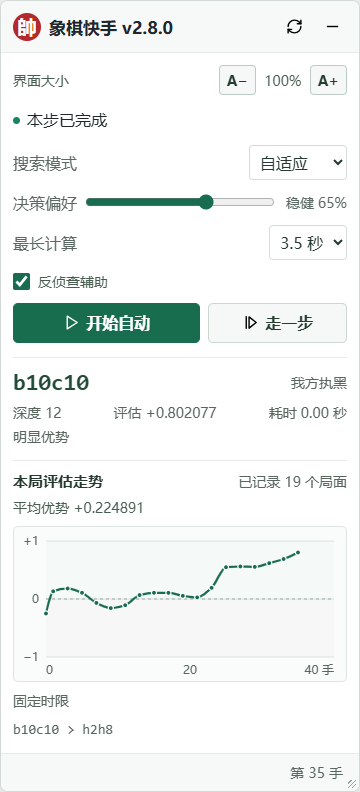
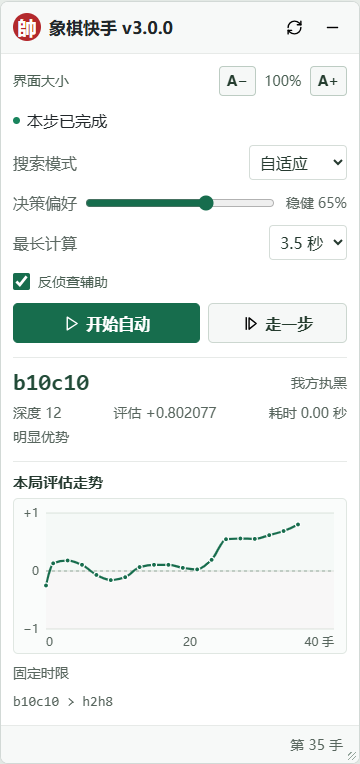
release: publish v3.0 official edition with a compact evaluation panel

diff --git a/extension/content.js b/extension/content.js
@@ -41,8 +41,7 @@
     .primary{background:#176d4d;color:white;border-color:#176d4d}.primary img{filter:brightness(0) invert(1)}.primary.running{background:#a52b32;border-color:#a52b32}
     .result{margin-top:14px;border-top:1px solid #e7eae8;padding-top:11px;display:flex;justify-content:space-between;align-items:center;gap:8px}.move{font-family:Consolas,monospace;font-size:23px;font-weight:600;color:#224b38;white-space:nowrap}
     #side{font-size:14px;color:#58665e}.metrics{display:flex;flex-wrap:wrap;justify-content:space-between;color:#58665e;font-size:14px;gap:5px;margin-top:7px;font-variant-numeric:tabular-nums}.score-meaning{font-size:14px;line-height:1.6;color:#58665e;margin-top:4px;overflow-wrap:anywhere}.pv{color:#58665e;font-family:Consolas,monospace;font-size:14px;line-height:1.6;overflow-wrap:anywhere;margin-top:9px;max-height:5em;overflow:auto}
-    .evaluation-history{margin-top:12px;border-top:1px solid #e7eae8;padding-top:10px}.evaluation-heading{display:flex;align-items:center;justify-content:space-between;gap:6px;font-size:14px}.evaluation-heading b{font-size:15px;color:#263a30}.evaluation-heading span{color:#58665e;font-variant-numeric:tabular-nums}
-    #evaluation-integral{display:block;margin-top:6px;font-size:14px;line-height:1.6;color:#485d51;font-variant-numeric:tabular-nums;overflow-wrap:anywhere}
+    .evaluation-history{margin-top:12px;border-top:1px solid #e7eae8;padding-top:10px}.evaluation-heading{font-size:14px}.evaluation-heading b{font-size:15px;color:#263a30}
     .evaluation-plot{position:relative;margin-top:6px;border:1px solid #e0e7e2;border-radius:5px;overflow:hidden;background:#fafcfb}#evaluation-chart{display:block;width:100%;height:auto;overflow:visible;font-family:inherit;font-size:12px;color:#58665e;touch-action:pan-y}.evaluation-grid{stroke:#dce4de;stroke-width:1}.evaluation-zero{stroke:#9baea1;stroke-dasharray:3 3}.evaluation-axis{fill:#58665e}.evaluation-line{fill:none;stroke:#176d4d;stroke-width:2.2;stroke-linecap:round;stroke-linejoin:round;pointer-events:none}.evaluation-point{fill:#176d4d;stroke:#fff;stroke-width:1.2;cursor:crosshair}.evaluation-point[data-mate=true]{fill:#ad393d}.evaluation-point:focus{outline:none;stroke:#263a30;stroke-width:2}.evaluation-hit{fill:transparent;pointer-events:all;cursor:crosshair}#evaluation-cursor{stroke:#7d9486;stroke-width:1;stroke-dasharray:3 3;pointer-events:none}#evaluation-active{fill:#fff;stroke:#176d4d;stroke-width:2;pointer-events:none}
     #evaluation-tooltip{position:absolute;left:8px;top:7px;z-index:1;max-width:calc(100% - 16px);padding:3px 6px;border:1px solid #d5dfd8;border-radius:4px;background:#fffffff2;box-shadow:0 2px 6px #162a231a;font-size:13px;line-height:1.6;color:#485d51;font-variant-numeric:tabular-nums;overflow-wrap:anywhere;pointer-events:none}
     footer{display:flex;flex-wrap:wrap;gap:5px;align-items:center;justify-content:flex-end;padding:9px 16px 9px 12px;background:#f7f9f8;border-top:1px solid #e7eae8;color:#58665e;font-size:14px}
@@ -58,8 +57,7 @@
   <div class="actions"><button id="auto" class="command primary" disabled>${icon('play','开始自动')}</button><button id="single" class="command" disabled>${icon('step-forward','走一步')}</button></div>
   <div class="result"><output id="move" class="move">-</output><span id="side">-</span></div><div class="metrics"><span id="depth">深度 -</span><span id="score">评估 -</span><span id="elapsed">耗时 -</span></div>
   <div id="score-meaning" class="score-meaning">暂无有效评估</div>
-  <section class="evaluation-history" aria-label="本局评估走势"><div class="evaluation-heading"><b>本局评估走势</b><span id="evaluation-summary">已记录 0 个局面</span></div>
-  <output id="evaluation-integral" title="有符号积分除以实际记录手数跨度，范围 −1～+1">平均优势 -</output>
+  <section class="evaluation-history" aria-label="本局评估走势"><div class="evaluation-heading"><b>本局评估走势</b></div>
   <div class="evaluation-plot"><svg id="evaluation-chart" viewBox="0 0 332 154" role="group" aria-label="本局评估曲线，横轴为手数，纵轴为评估，范围负1到正1">
   <path class="evaluation-grid" d="M32,14H320 M32,72H320 M32,130H320"/><path class="evaluation-grid evaluation-zero" d="M32,72H320"/>
   <g class="evaluation-axis"><text x="25" y="18" text-anchor="end">+1</text><text x="25" y="76" text-anchor="end">0</text><text x="25" y="134" text-anchor="end">−1</text><text id="evaluation-x-start" x="32" y="147">0</text><text id="evaluation-x-middle" x="176" y="147" text-anchor="middle">5</text><text id="evaluation-x-end" x="320" y="147" text-anchor="end">10 手</text></g>
@@ -246,24 +244,10 @@
     $('evaluation-x-end').textContent = `${evaluationMaxPly} 手`;
     const segments = evaluationCurveSegments(evaluationPoints);
     $('evaluation-line').setAttribute('d', evaluationCurvePath(evaluationPoints, segments));
-    // Exact integral of the same Hermite segments used to draw the curve.
-    const area = segments.reduce((total, segment) => total +
-      segment.width * (segment.start.value + segment.end.value) / 2 +
-      segment.width ** 2 * (segment.startSlope - segment.endSlope) / 12, 0);
-    const integral = $('evaluation-integral');
-    const span = evaluationPoints.length > 1 ? last.ply - evaluationPoints[0].ply : 0;
-    const mean = span > 0 ? Math.max(-1, Math.min(1, area / span)) : null;
-    const shownMean = mean === null ? null : Number(mean.toFixed(6));
-    integral.textContent = shownMean === null ? '平均优势 -' : `平均优势 ${signedEvaluation(shownMean === 0 ? 0 : shownMean)}`;
-    integral.dataset.value = mean === null ? '' : String(mean === 0 ? 0 : mean);
-    integral.dataset.area = evaluationPoints.length ? String(area === 0 ? 0 : area) : '';
-    integral.dataset.startPly = evaluationPoints.length ? String(evaluationPoints[0].ply) : '';
-    integral.dataset.endPly = last ? String(last.ply) : '';
     $('evaluation-points').innerHTML = evaluationPoints.map(point => {
       const label = evaluationPointLabel(point);
       return `<circle class="evaluation-point" cx="${chartCoordinate(chartX(point.ply))}" cy="${chartCoordinate(chartY(point.value))}" r="${point.mate ? 3.3 : 2.5}" tabindex="0" role="img" data-ply="${point.ply}" data-value="${point.value}" data-mate="${Boolean(point.mate)}" aria-label="${label}"></circle>`;
     }).join('');
-    $('evaluation-summary').textContent = `已记录 ${evaluationPoints.length} 个局面`;
     evaluationChart.dataset.count = String(evaluationPoints.length);
     evaluationChart.dataset.perspective = evaluationSide;
     evaluationChart.dataset.controlled = String(evaluationControlled);

diff --git a/安装说明.html b/安装说明.html
@@ -2,17 +2,17 @@
 <html lang="zh-CN">
 <head>
 <meta charset="utf-8"><meta name="viewport" content="width=device-width,initial-scale=1">
-<title>象棋快手 v2.8.0 · 安装说明</title>
+<title>象棋快手 v3.0 正式版 · 安装说明</title>
 <style>*{box-sizing:border-box}body{margin:0;background:#f5f7f6;color:#24352b;font:16px/1.8 "Microsoft YaHei",system-ui,sans-serif}main{max-width:780px;margin:36px auto;padding:0 24px 40px}header{display:flex;gap:14px;align-items:center;border-bottom:1px solid #d9e0db;padding-bottom:20px}header img{width:54px;height:54px}h1{margin:0;font-size:27px}header p{margin:0;color:#6b776f}h2{font-size:19px;margin:26px 0 8px}ol{padding-left:24px}li{margin:10px 0}code{font:14px Consolas,monospace;background:#e9eeeb;padding:3px 7px;border-radius:3px;overflow-wrap:anywhere}a{color:#176d4d}table{width:100%;border-collapse:collapse;margin:12px 0}th,td{text-align:left;padding:10px 12px;border-bottom:1px solid #d9e0db}th{color:#637268;font-weight:500}p{margin:10px 0}footer{margin-top:28px;border-top:1px solid #d9e0db;padding-top:16px;font-size:14px}@media(max-width:500px){main{margin-top:20px;padding:0 16px 28px}h1{font-size:23px}th,td{padding:8px 5px}}</style>
 </head>
 <body><main>
-<header><img src="extension/icons/icon128.png" alt="象棋快手图标"><div><h1>象棋快手 v2.8.0</h1><p>Pikafish NNUE · 对局、题库与棋盘分析</p></div></header>
+<header><img src="extension/icons/icon128.png" alt="象棋快手图标"><div><h1>象棋快手 v3.0 正式版</h1><p>Pikafish NNUE · 对局、题库与棋盘分析</p></div></header>
 <h2>安装与更新</h2>
 <ol>
-<li>从 <a href="https://github.com/zhaopengbo-0702/xiangqi-quick-hands/releases/latest">GitHub Releases</a> 下载 <code>xiangqi-quick-hands-v2.8.0.zip</code> 并解压。</li>
+<li>从 <a href="https://github.com/zhaopengbo-0702/xiangqi-quick-hands/releases/latest">GitHub Releases</a> 下载 <code>xiangqi-quick-hands-v3.0.0.zip</code> 并解压。</li>
 <li>Edge 打开 <code>edge://extensions</code>，Chrome 打开 <code>chrome://extensions</code>，开启“开发人员模式”。</li>
 <li>点击“加载解压缩的扩展”，选择直接包含 <code>manifest.json</code> 的目录。源码安装时选择 <a href="extension/">extension 文件夹</a>，保留安装目录供浏览器加载。</li>
-<li>更新旧版时，用新版文件替换原目录并点击“重新加载”。刷新棋盘，确认面板标题显示 v2.8.0。</li>
+<li>更新旧版时，用新版文件替换原目录并点击“重新加载”。刷新棋盘，确认面板标题显示 v3.0.0。</li>
 <li>进入自己的对局，等待“引擎就绪”，点击“开始自动”或“走一步”。首次预热需要数秒。</li>
 </ol>
 <p>适用 Chrome / Edge 116 或更新版本。浏览器独立包内含 WASM 引擎、NNUE、对应源码和许可证。</p>
@@ -25,9 +25,6 @@
 <p>普通评分沿用现有六位局势指数；非零杀棋点标记在 ±1，参与对局时标注我方或对方杀棋，“杀棋 0”跳过图表记录。数字评估继续显示“杀棋 N”。同一手再次计算更新对应点，暂停、收起面板和重连引擎后保留本局记录。</p>
 <p>启动后会真实计算本局初始局面，补齐第 0 手评估；开局采集只做分析，不落子，也不预设零分。执黑时同样先采集开局点，再记录正常行棋评估。采集失败不会暂停自动行棋，稍后重试。</p>
 <p>切换对局、题目或识别人机重新开局后自动清零。中途进入可根据合法初始局面补采开局点，其他未计算过的历史手数不补造。</p>
-<h2>平均优势</h2>
-<p>面板常驻显示平滑评估曲线的带符号积分除以首末记录手数跨度，范围为 −1 至 +1。正值表示自己平均占优，负值表示对方平均占优；每手为一个单方步。无点、单点或跨度为零时显示“-”，新局自动清零。</p>
-<p>平均优势反映记录区间内按手数加权的平均评估，当前评估反映眼下局面。持续保持 +0.5 时，平均优势始终为 +0.5，不随跨度累加，也不另套 tanh。完整公式见 <a href="https://github.com/zhaopengbo-0702/xiangqi-quick-hands/blob/main/docs/cumulative-advantage.md">平均优势数学说明</a>。</p>
 <h2>读懂面板</h2>
 <p>评估以六位小数显示，正值有利、负值不利，零附近为均势。分档依次为均势、稍优或稍劣、明显优势或劣势、大幅优势或劣势、接近胜势或败势。强制杀棋显示“杀棋 N”。</p>
 <p>深度表示向后搜索的单方步数；重要性用于分配本步计算时间；预算是计划搜索时间，耗时包含读取、计算和落子确认。底部线路展示引擎预测的双方后续走法。</p>
@@ -46,5 +43,5 @@
 <h2>连接恢复</h2>
 <p>更新扩展后刷新棋盘，等待新面板就绪。页面提示“插件已更新，请重新连接”时，可点击浏览器工具栏的扩展按钮恢复面板，再重新开启自动行棋。</p>
 <p>开发工具、原生兼容性和旧版组件管理见 <a href="CONTRIBUTING.md">开发说明</a>。源码与网络权重的许可见 <a href="THIRD_PARTY_NOTICES.md">第三方授权与来源</a>。</p>
-<footer><a href="README.md">完整说明</a> · <a href="CHANGELOG.md">逐版更新记录</a> · 版本 2.8.0</footer>
+<footer><a href="README.md">完整说明</a> · <a href="CHANGELOG.md">逐版更新记录</a> · 版本 3.0.0</footer>
 </main></body></html>

diff --git a/README.md b/README.md
@@ -1,20 +1,22 @@
-# 象棋快手 v2.8.0
+# 象棋快手 v3.0 正式版
 
 [下载发行版](https://github.com/zhaopengbo-0702/xiangqi-quick-hands/releases/latest) · [逐版更新记录](CHANGELOG.md) · [评估公式](docs/evaluation-mapping.md) · [问题反馈](https://github.com/zhaopengbo-0702/xiangqi-quick-hands/issues) · [自动检查](https://github.com/zhaopengbo-0702/xiangqi-quick-hands/actions)
 
+**v3.0 为正式版，目前功能已较为完善，后续大概率不再更新。**
+
 Chrome / Edge 浏览器扩展，内置 Pikafish WASM 与 NNUE，支持 Xiangqi.com 对局、题库和棋盘分析。面板支持拖动、整体缩放、后台运行，以及运行中调整搜索参数。
 
-**2.8.0** 新增常驻“平均优势”，将本局平滑评估曲线的带符号积分除以记录手数跨度，归一化到 −1 至 +1。正值表示自己在记录区间平均占优，负值表示对方平均占优。计算公式见 [平均优势](docs/cumulative-advantage.md)。
+**3.0.0 正式版** 移除“平均优势”功能和“已记录 N 个局面”文字，保留本局平滑评估曲线、按自己控制方评分、真实开局采集及鼠标、触摸和键盘读数。
 
 ## 安装与更新
 
-使用 Chrome / Edge 116 或更新版本，下载 [xiangqi-quick-hands-v2.8.0.zip](https://github.com/zhaopengbo-0702/xiangqi-quick-hands/releases/download/v2.8.0/xiangqi-quick-hands-v2.8.0.zip)。安装包内含扩展、引擎、网络、对应源码和许可证。
+使用 Chrome / Edge 116 或更新版本，下载 [xiangqi-quick-hands-v3.0.0.zip](https://github.com/zhaopengbo-0702/xiangqi-quick-hands/releases/download/v3.0.0/xiangqi-quick-hands-v3.0.0.zip)。安装包内含扩展、引擎、网络、对应源码和许可证。
 
 1. 解压安装包，保留整个目录。
 2. Edge 打开 `edge://extensions`；Chrome 打开 `chrome://extensions`。
 3. 开启“开发人员模式”，点击“加载解压缩的扩展”，选择直接包含 `manifest.json` 的目录。
 4. 更新旧版时，用新版文件替换原目录，再点击扩展的“重新加载”。
-5. 刷新棋盘，确认面板标题为 **象棋快手 v2.8.0**。等待“引擎就绪”，点击“开始自动”或“走一步”。首次预热需要数秒。
+5. 刷新棋盘，确认面板标题为 **象棋快手 v3.0.0**。等待“引擎就绪”，点击“开始自动”或“走一步”。首次预热需要数秒。
 
 源码安装时选择仓库中的 `extension` 文件夹。浏览器工具栏的扩展按钮可以展开或收起面板，安装目录用于浏览器持续加载扩展。安装包使用带版本号的文件名，校验值见同版 `SHA256SUMS.txt`。
 
@@ -42,7 +44,7 @@ Chrome / Edge 浏览器扩展，内置 Pikafish WASM 与 NNUE，支持 Xiangqi.c
 
 ## 本局评估走势
 
-![象棋快手 v2.8.0 本局评估走势](docs/assets/evaluation-history-panel.png)
+![象棋快手 v3.0.0 本局评估走势](docs/assets/evaluation-history-panel.png)
 
 界面示例，使用模拟评估数据。
 
@@ -55,14 +57,6 @@ Chrome / Edge 浏览器扩展，内置 Pikafish WASM 与 NNUE，支持 Xiangqi.c
 开启“开始自动”或“走一步”后，系统会真实计算本局初始局面，记录第 0 手评估；这次开局采集只做分析，不落子。开局点来自引擎评分，不预设为零。执黑时也会先补齐开局点，再记录正常行棋时的评估点。
 
 同一手再次计算会更新对应点。暂停、收起面板或重新连接引擎后继续保留本局记录；切换对局、题目或识别人机重新开局时自动清零。中途进入时，也可根据网站提供的本局初始局面补采第 0 手；其他未计算过的历史手数不补造。开局采集失败时保留空缺并稍后重试，自动行棋继续运行。刷新页面后重新开始记录。
-
-## 平均优势
-
-面板常驻显示“平均优势”：先对同一条 PCHIP 曲线在首末实际记录点之间做带符号积分，再除以记录手数跨度。它与评估值使用同一尺度，范围为 −1 至 +1，不再随对局长度不断累加。正值表示自己在该区间平均占优，负值表示对方平均占优；当前评估反映眼下局面。
-
-持续保持 +0.5 时，无论记录跨度多长，平均优势都是 +0.5。若前 20 手平均 +0.5、后 10 手平均 −0.8，原始积分为 +2，平均优势为 +2 ÷ 30 ≈ +0.066667；最后一刻仍可处于 −0.8 的劣势。这是按单方手数加权的平均评估，不是概率，也不再套用 tanh。
-
-无记录点、只有一个点或跨度为零时显示“平均优势 -”。只计算首末实际记录点之间的区间，不向外延伸。补采开局点、同一手重新计算或视角改变时同步重算，新局自动清零。完整定义、Hermite 原函数和归一化积分见 [平均优势的计算公式](docs/cumulative-advantage.md)，有界性及保形条件的[严格数学证明](docs/cumulative-advantage.md#范围保证的严格证明)也一并公开。
 
 ## 评估显示
 

diff --git a/CHANGELOG.md b/CHANGELOG.md
@@ -2,7 +2,19 @@
 
 本文件记录已发布版本的用户可见变化、关键修复与验证范围。各版完整发布说明保存在 [`.github/releases`](.github/releases)，下载与校验值见 [GitHub Releases](https://github.com/zhaopengbo-0702/xiangqi-quick-hands/releases)。
 
-当前提供浏览器独立包 `xiangqi-quick-hands-v2.8.0.zip` 和校验文件 `SHA256SUMS.txt`，各版安装包均标明版本。历史 Windows 完整包已停止分发。2.3.1 的开发改动合并于 2.4.0 发布。
+当前提供浏览器独立包 `xiangqi-quick-hands-v3.0.0.zip` 和校验文件 `SHA256SUMS.txt`，各版安装包均标明版本。历史 Windows 完整包已停止分发。2.3.1 的开发改动合并于 2.4.0 发布。
+
+## 3.0.0 正式版
+
+- 发布 v3.0 正式版，主页注明当前功能已较为完善，后续大概率不再更新。
+- 移除“平均优势”功能及其常驻展示。
+- 移除走势图标题旁“已记录 N 个局面”文字及对应占位。
+- 保留本局平滑评估曲线、真实开局采集、按自己控制方评分和鼠标、触摸、键盘读数。
+- 面板、首页、安装说明与浏览器安装包统一标注 v3.0.0。
+
+验证：完整回归 258/258、真实浏览器 18 项检查及扩展、安装包校验通过。
+
+完整说明：[3.0.0 正式版](.github/releases/v3.0.0.md)。
 
 ## 2.8.0
 

diff --git a/.github/releases/v3.0.0.md b/.github/releases/v3.0.0.md
@@ -1,0 +1,13 @@
+# 象棋快手 v3.0 正式版
+
+v3.0 为正式版，目前功能已较为完善，后续大概率不再更新。浏览器安装包版本为 **3.0.0**。
+
+本版移除“平均优势”整个功能和“已记录 N 个局面”文字，释放对应空间。
+
+本局平滑评估曲线、真实开局采集和按自己控制方评分继续保留。鼠标悬停、手指触摸记录点或键盘聚焦时，仍可在图内查看手数与评估值。
+
+完整回归 258/258、真实浏览器 18 项检查通过；扩展及安装包版本、源文件和 SHA256 校验通过。
+
+下载 **`xiangqi-quick-hands-v3.0.0.zip`**，替换原插件目录中的文件，在浏览器扩展管理页点击“重新加载”，刷新棋盘后确认面板标题为 **v3.0.0**。
+
+逐版变化见 [CHANGELOG.md](https://github.com/zhaopengbo-0702/xiangqi-quick-hands/blob/main/CHANGELOG.md)。

diff --git a/docs/evaluation-history.md b/docs/evaluation-history.md
@@ -6,7 +6,7 @@
 
 自 v2.7.4 起，图下没有常驻评估详情或默认提示。鼠标悬停、手指触摸记录点或键盘聚焦时，手数与评估值显示在图内浮层；移开、松开或失去焦点后隐藏。该显示方式不改变真实记录点和插值计算。
 
-v2.8.0 新增独立的常驻“平均优势”，将本页定义的同一条平滑曲线的带符号积分除以首末记录手数跨度，归一化到 −1 至 +1。完整公式见[平均优势的归一化积分](cumulative-advantage.md)。
+v3.0.0 已移除“平均优势”功能和“已记录 N 个局面”文字；本页的曲线记录、平滑计算和交互读数规则继续适用。
 
 ## 实际记录了什么
 

diff --git a/docs/cumulative-advantage.md b/docs/cumulative-advantage.md
@@ -1,5 +1,7 @@
 # 平均优势的归一化积分
 
+> 本页仅记录 v2.8.0 的历史方案。v3.0.0 已移除平均优势功能，以下公式与证明保留供查阅，不代表当前面板功能。
+
 自 v2.8.0 起，主面板常驻显示“平均优势”。先对本局已记录的同一条 PCHIP 评估曲线做带符号积分，再除以首末记录手数跨度，得到范围为 $`[-1,1]`$ 的归一化平均评估。本页给出原始积分与归一化的完整运算关系；记录、视角和节点斜率规则见[本局评估走势](evaluation-history.md)。
 
 ## 输入与积分区间
